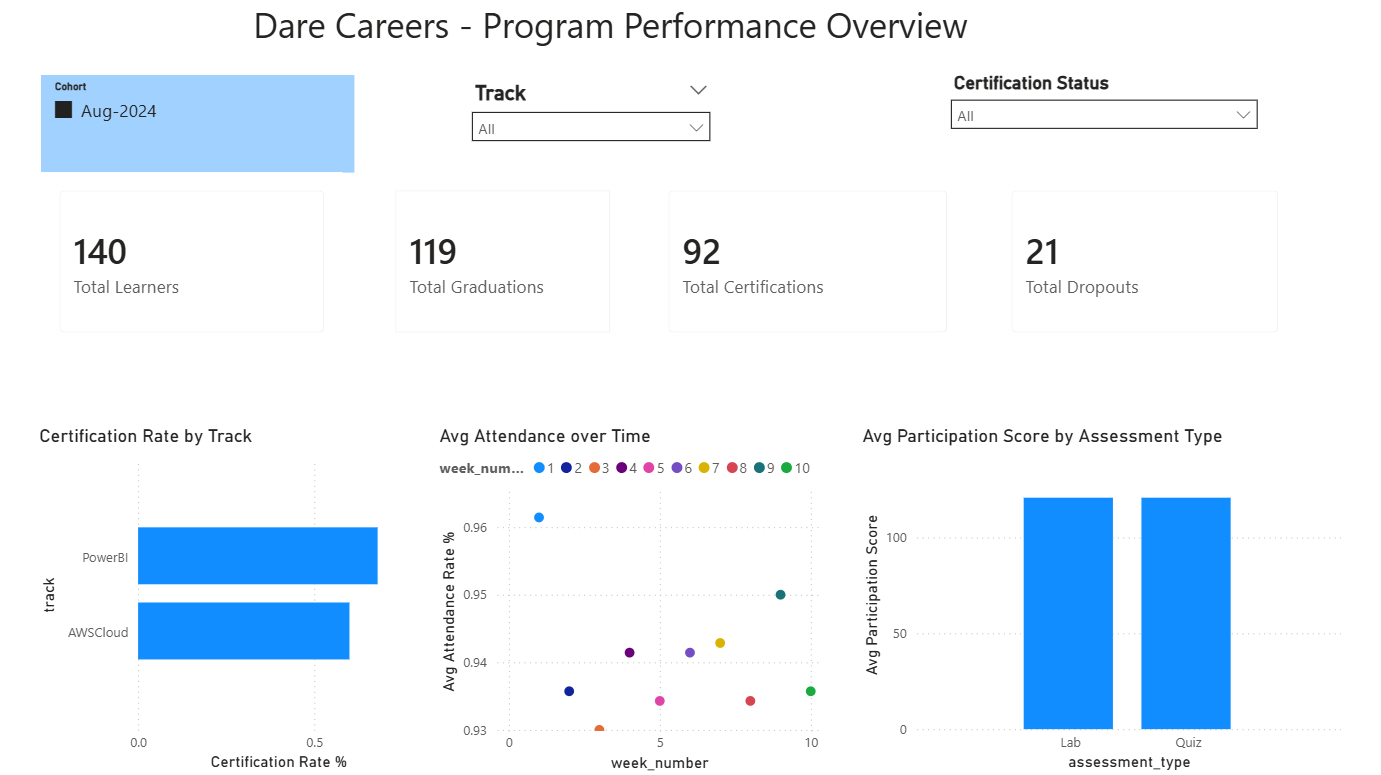
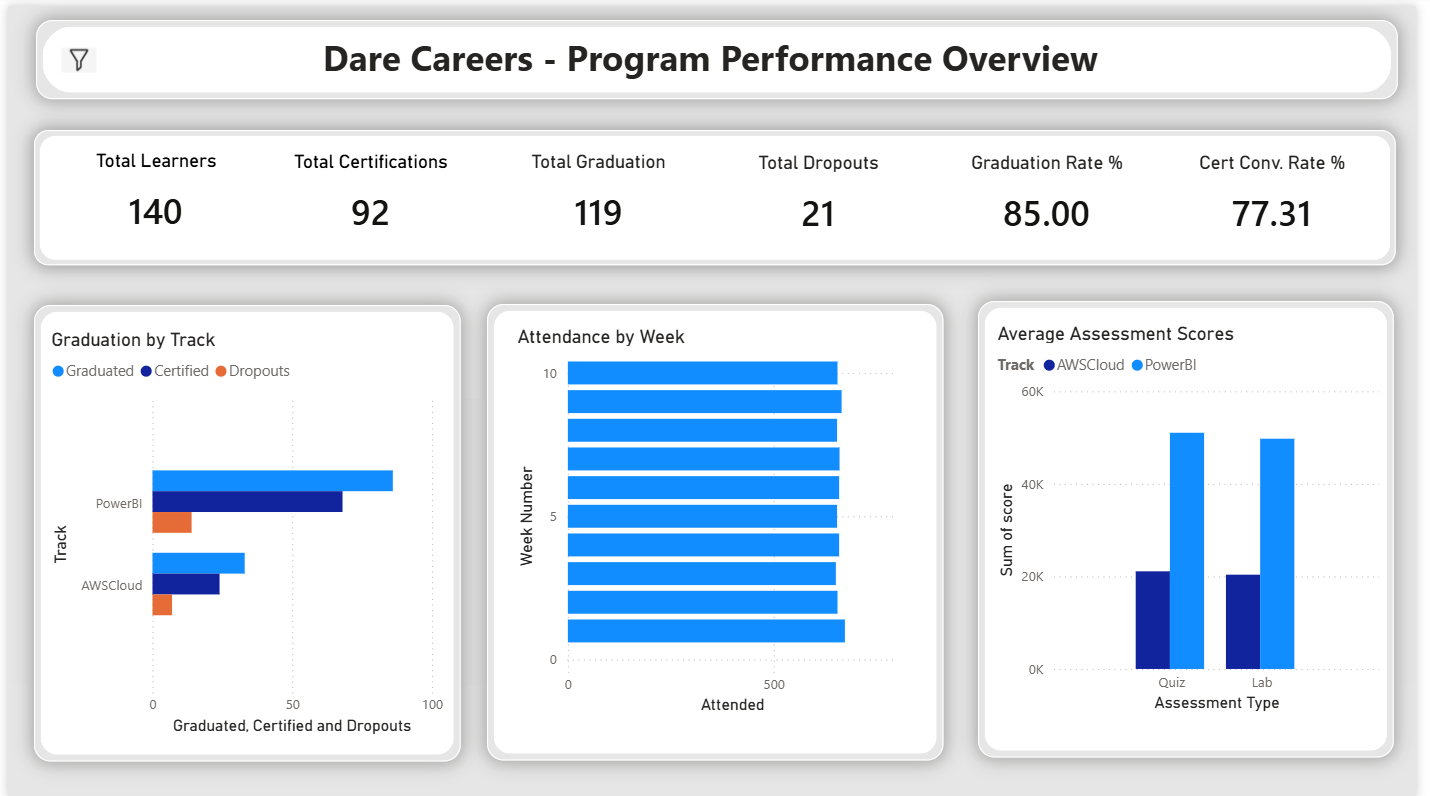
updated readme

diff --git a/README.md b/README.md
@@ -1,289 +1,74 @@
-# Power Query Architecture: Dare Careers Dashboard
+# Dare Careers Student Progress Dashboard
 
-## Overview
-
-This directory contains the **Optimized Power Query (M-Code)** solution for the Dare Careers Power BI Dashboard. The architecture has been refactored to ensure high performance, scalability, and ease of maintenance.
+A comprehensive Power BI solution designed to track student progress, engagement, and success rates for the Dare Careers program. This dashboard empowers program managers to identify at-risk learners, monitor cohort performance, and ensure high graduation rates.
 
 ---
 
-## 🏗 Architecture Diagram
-
-The system follows a **Metadata-Driven** approach for the Calendar and a **Decoupled** approach for Learners, ensuring robustness even if data is missing or files are moved.
-
-```mermaid
-graph TD
-    subgraph Infrastructure
-        P1["parameters.pq (BasePath)"]
-        F1["fxGetTrackName.pq"]
-    end
-
-    subgraph Source_Layers ["Source Layers"]
-        File_Att["Zoom Attendance Files"]
-        File_Stat["Status of Learners Excel"]
-        File_Grade["Labs & Quizzes Excel"]
-        File_Part["Participation Excel"]
-    end
-
-    subgraph Fact_Tables ["Fact Tables (Events)"]
-        FactAtt["fact_attendance.pq (Zoom Sessions)"]
-        FactGrade["fact_grades.pq (Labs/Quizzes)"]
-        FactPart["fact_participation.pq (Daily Logs)"]
-    end
-
-    subgraph Dimension_Tables ["Dimension Tables (Context)"]
-        DimW["dim_week.pq (Derived from Metadata)"]
-        DimL["dim_learner.pq (Master Learner List)"]
-        DimD["dim_date.pq (Generated Calendar)"]
-    end
-
-    %% Dependencies
-    P1 --> FactAtt
-    P1 --> FactGrade
-    P1 --> FactPart
-    P1 --> DimW
-    P1 --> DimL
-
-    F1 --> FactAtt
-    F1 --> FactGrade
-    F1 --> FactPart
-    F1 --> DimL
-
-    File_Att --> FactAtt
-    File_Att -.->|Metadata Only| DimW
-    File_Stat --> DimL
-    File_Grade --> FactGrade
-    File_Part --> FactPart
-
-    DimW --> DimD
-    FactPart -.->|Date Range| DimD
-    FactAtt -.->|Enrichment Only| DimL
-```
-
----
-
-## � Detailed Data Lineage & Logic
-
-This section explains exactly how each table is populated based on the current M-Code.
-
-### 1. Infrastructure
-
-- **`parameters.pq`**: Defines the `BasePath`.
-  - _Logic_: Hardcoded text string pointing to the Data directory. All other queries reference this.
-- **`fxGetTrackName.pq`**: Helper function.
-  - _Logic_: Takes a folder path. Finds the "Data" folder (case-insensitive) and extracts the _next_ folder name (e.g., `...\Data\AWSCloud Training\...` -> returns `AWSCloud`).
-
-### 2. Dimension Tables
-
-- **`dim_week.pq`**: The "Program Schedule".
-  - _Source_: Folder **Metadata** only (filenames/folder names).
-  - _Logic_: Scans `Zoom Attendance` folders. Extracts Week Number from folder name ("Week 1") and Date from filename ("2024-08-05.csv").
-  - _Aggregation_: Groups by Week Number to find the Min (Start) and Max (End) date for that week.
-  - _Performance_: Extremely fast because it never opens the actual CSV files.
-
-- **`dim_date.pq`**: The "Master Calendar".
-  - _Source_: `dim_week` and `fact_participation`.
-  - _Logic_:
-    1.  Gets the Program Start/End dates from `dim_week`.
-    2.  Gets the Actual Activity Start/End dates from `fact_participation`.
-    3.  Generates a continuous list of dates covering the full range of both.
-    4.  Adds standard attributes (Year, Month, Day, DayOfWeek, IsWeekend).
-
-- **`dim_learner.pq`**: The "Master Student List".
-  - _Source_: `Status of Learners` Excel files + `fact_attendance`.
-  - _Logic_:
-    1.  Loads all learners from the Status files (Enrollment List).
-    2.  **Enrichment**: Left Joins with `fact_attendance` to find the learner's Name (since Status files only have Email) and Enrollment Date (First Attendance).
-    3.  **Fallback**: If a learner has no attendance (Name is null), creates a "Derived Name" by formatting the email address (e.g., `john.doe@...` -> "John Doe").
-    4.  **Status**: Calculates `current_status` (Graduate, Certified, In Progress) based on Excel status columns.
-
-### 3. Fact Tables
-
-- **`fact_attendance.pq`**: Zoom Session Records.
-  - _Source_: Recursive scan of all CSVs in `Zoom Attendance`.
-  - _Logic_:
-    1.  Extracts Date from filename and Week from folder path.
-    2.  Parses `Duration`: Handles both "Total Minutes" (e.g., `66`) and "Time" (e.g., `1:06:00`) formats.
-    3.  Calculates `is_attended` flag (1 if duration > 30 mins, else 0).
-    4.  Links to `dim_learner` via Email.
-
-- **`fact_grades.pq`**: Lab and Quiz Scores.
-  - _Source_: `Labs & Quizzes` Excel files.
-  - _Logic_:
-    1.  Filters for "Labs" and "Quizzes" sheets.
-    2.  **Unpivots** the data: Turns horizontal columns ("Week 1", "Week 2"...) into vertical rows.
-    3.  Extracts numeric Week Number from the header text.
-
-- **`fact_participation.pq`**: Daily participation logs.
-  - _Source_: `Participation` Excel files.
-  - _Logic_:
-    1.  Splits the comma-separated `Participants` column into multiple rows (one per student).
-    2.  Parses the Date.
-    3.  **Mapping**: Merges with `fact_attendance` to find the Email Address for each Name (since Participation logs often lack emails).
-
----
-
-## � Setup Guide
+## Getting Started
 
 ### 1. Prerequisites
 
-Before pasting any query code, you must create the foundational elements that other queries depend on.
+- **Power BI Desktop**: Download and install the latest version from the [Microsoft Store](https://aka.ms/pbidesktopstore) or [web](https://powerbi.microsoft.com/desktop/).
+- **Data Source**: This dashboard connects to a local `Data` folder containing Zoom attendance, Grades, and Participation logs.
 
-- **Step A: Define the Base Path**
-  1.  Create a **New Blank Query** in Power Query Editor.
-  2.  Name it `BasePath`.
-  3.  Paste the code from `parameters.pq`.
-  4.  **Crucial**: Update the path string inside to valid location of your `Data` folder.
+### 2. Installation & Setup
 
-- **Step B: Add the Helper Function**
-  1.  Create a **New Blank Query**.
-  2.  Name it `fxGetTrackName`.
-  3.  Paste the code from `fx_get_track_name.pq`.
-
-### 2. Implementation
-
-Copy/paste the code from the respective `.pq` files into blank queries with the exact same names.
-
-# Power Query Architecture: Dare Careers Dashboard
-
-## Overview
-
-This directory contains the **Optimized Power Query (M-Code)** solution for the Dare Careers Power BI Dashboard. The architecture has been refactored to ensure high performance, scalability, and ease of maintenance.
+1.  Clone or download this repository.
+2.  Ensure your data files are organized in the `Data` directory as expected by the Power Query logic.
+3.  Open `Power-BI.pbix` in Power BI Desktop.
+4.  **Refresh Data**: Click the **Refresh** button in the Home ribbon to load the latest data from your local files.
 
 ---
 
-## 🏗 Architecture Diagram
+## Dashboard Overview
 
-The system follows a **Metadata-Driven** approach for the Calendar and a **Decoupled** approach for Learners, ensuring robustness even if data is missing or files are moved.
+The report consists of two main pages designed for different levels of analysis.
 
-```mermaid
-graph TD
-    subgraph Infrastructure
-        P1["parameters.pq (BasePath)"]
-        F1["fxGetTrackName.pq"]
-    end
+### 1. Overall Performance Metrics
 
-    subgraph Source_Layers ["Source Layers"]
-        File_Att["Zoom Attendance Files"]
-        File_Stat["Status of Learners Excel"]
-        File_Grade["Labs & Quizzes Excel"]
-        File_Part["Participation Excel"]
-    end
+**Goal**: High-level summary of program health for stakeholders.
 
-    subgraph Fact_Tables ["Fact Tables (Events)"]
-        FactAtt["fact_attendance.pq (Zoom Sessions)"]
-        FactGrade["fact_grades.pq (Labs/Quizzes)"]
-        FactPart["fact_participation.pq (Daily Logs)"]
-    end
+![Dashboard Overview](Overview.png)
 
-    subgraph Dimension_Tables ["Dimension Tables (Context)"]
-        DimW["dim_week.pq (Derived from Metadata)"]
-        DimL["dim_learner.pq (Master Learner List)"]
-        DimD["dim_date.pq (Generated Calendar)"]
-    end
+**Key Metrics & Visuals**:
 
-    %% Dependencies
-    P1 --> FactAtt
-    P1 --> FactGrade
-    P1 --> FactPart
-    P1 --> DimW
-    P1 --> DimL
+- **KPI Cards**:
+  - **Total Learners**: 140 (Active enrollment count)
+  - **Total Certifications**: 92 (Learners who passed certification)
+  - **Total Graduation**: 119 (Learners who completed the program)
+  - **Total Dropouts**: 21
+  - **Graduation Rate %**: 85.00%
+  - **Cert Conv. Rate %**: 77.31% (Conversion from Graduated to Certified)
+- **Visuals**:
+  - **Graduation by Track**: Bar chart comparing "Graduated", "Certified", and "Dropouts" across Tracks (PowerBI vs AWSCloud).
+  - **Attendance by Week**: Horizontal bar chart showing attendance trends over the 10-week program.
+  - **Average Assessment Scores**: Side-by-side comparison of Quiz and Lab scores by Track.
 
-    F1 --> FactAtt
-    F1 --> FactGrade
-    F1 --> FactPart
-    F1 --> DimL
+### 2. Learner Detail View
 
-    File_Att --> FactAtt
-    File_Att -.->|Metadata Only| DimW
-    File_Stat --> DimL
-    File_Grade --> FactGrade
-    File_Part --> FactPart
+**Goal**: Granular analysis tool for trainers to monitor individual student progress.
 
-    DimW --> DimD
-    FactPart -.->|Date Range| DimD
-    FactAtt -.->|Enrichment Only| DimL
-```
+![Learner Details](learner_detail.png)
+
+**Features**:
+
+- **Searchable Slicer**: Quickly find any student by typing their name in the "Search for a learner" box.
+- **Student Profile**:
+  - Selecting a student updates the top KPIs to show their specific **Avg Attendance Rate %**, **Participation Score**, and **Attendance Rate**.
+- **Detailed Matrix**:
+  - A comprehensive table listing every student with:
+    - **Total Hours Spent**: Time in Zoom sessions.
+    - **Total Sessions Attended**: Count of eligible sessions (>30 mins).
+    - **Avg Attendance Rate %**: Visual indicator of attendance health.
+    - **Avg Participation Score**: Metric of daily engagement.
+    - **Avg Assessment Score**: Combined Lab and Quiz performance.
+    - **Status Indicators**: "Graduated" and "Certified" flags (1/0).
 
 ---
 
-## � Detailed Data Lineage & Logic
+## Project Structure
 
-This section explains exactly how each table is populated based on the current M-Code.
-
-### 1. Infrastructure
-
-- **`parameters.pq`**: Defines the `BasePath`.
-  - _Logic_: Hardcoded text string pointing to the Data directory. All other queries reference this.
-- **`fxGetTrackName.pq`**: Helper function.
-  - _Logic_: Takes a folder path. Finds the "Data" folder (case-insensitive) and extracts the _next_ folder name (e.g., `...\Data\AWSCloud Training\...` -> returns `AWSCloud`).
-
-### 2. Dimension Tables
-
-- **`dim_week.pq`**: The "Program Schedule".
-  - _Source_: Folder **Metadata** only (filenames/folder names).
-  - _Logic_: Scans `Zoom Attendance` folders. Extracts Week Number from folder name ("Week 1") and Date from filename ("2024-08-05.csv").
-  - _Aggregation_: Groups by Week Number to find the Min (Start) and Max (End) date for that week.
-  - _Performance_: Extremely fast because it never opens the actual CSV files.
-
-- **`dim_date.pq`**: The "Master Calendar".
-  - _Source_: `dim_week` and `fact_participation`.
-  - _Logic_:
-    1.  Gets the Program Start/End dates from `dim_week`.
-    2.  Gets the Actual Activity Start/End dates from `fact_participation`.
-    3.  Generates a continuous list of dates covering the full range of both.
-    4.  Adds standard attributes (Year, Month, Day, DayOfWeek, IsWeekend).
-
-- **`dim_learner.pq`**: The "Master Student List".
-  - _Source_: `Status of Learners` Excel files + `fact_attendance`.
-  - _Logic_:
-    1.  Loads all learners from the Status files (Enrollment List).
-    2.  **Enrichment**: Left Joins with `fact_attendance` to find the learner's Name (since Status files only have Email) and Enrollment Date (First Attendance).
-    3.  **Fallback**: If a learner has no attendance (Name is null), creates a "Derived Name" by formatting the email address (e.g., `john.doe@...` -> "John Doe").
-    4.  **Status**: Calculates `current_status` (Graduate, Certified, In Progress) based on Excel status columns.
-
-### 3. Fact Tables
-
-- **`fact_attendance.pq`**: Zoom Session Records.
-  - _Source_: Recursive scan of all CSVs in `Zoom Attendance`.
-  - _Logic_:
-    1.  Extracts Date from filename and Week from folder path.
-    2.  Parses `Duration`: Handles both "Total Minutes" (e.g., `66`) and "Time" (e.g., `1:06:00`) formats.
-    3.  Calculates `is_attended` flag (1 if duration > 30 mins, else 0).
-    4.  Links to `dim_learner` via Email.
-
-- **`fact_grades.pq`**: Lab and Quiz Scores.
-  - _Source_: `Labs & Quizzes` Excel files.
-  - _Logic_:
-    1.  Filters for "Labs" and "Quizzes" sheets.
-    2.  **Unpivots** the data: Turns horizontal columns ("Week 1", "Week 2"...) into vertical rows.
-    3.  Extracts numeric Week Number from the header text.
-
-- **`fact_participation.pq`**: Daily participation logs.
-  - _Source_: `Participation` Excel files.
-  - _Logic_:
-    1.  Splits the comma-separated `Participants` column into multiple rows (one per student).
-    2.  Parses the Date.
-    3.  **Mapping**: Merges with `fact_attendance` to find the Email Address for each Name (since Participation logs often lack emails).
-
----
-
-## � Setup Guide
-
-### 1. Prerequisites
-
-Before pasting any query code, you must create the foundational elements that other queries depend on.
-
-- **Step A: Define the Base Path**
-  1.  Create a **New Blank Query** in Power Query Editor.
-  2.  Name it `BasePath`.
-  3.  Paste the code from `parameters.pq`.
-  4.  **Crucial**: Update the path string inside to valid location of your `Data` folder.
-
-- **Step B: Add the Helper Function**
-  1.  Create a **New Blank Query**.
-  2.  Name it `fxGetTrackName`.
-  3.  Paste the code from `fx_get_track_name.pq`.
-
-### 2. Implementation
-
-Copy/paste the code from the respective `.pq` files into blank queries with the exact same names.
+- **`Power-BI.pbix`**: The main Power BI report file.
+- **`powerquery/`**: Contains the source code for the ETL logic, ensuring the data model is robust and easy to maintain.
+- **`instructions.txt`**: The original requirements document defining the scope of this project.
+- **`Data/`**: (Not included in repo) Local folder where raw data files should be placed.
